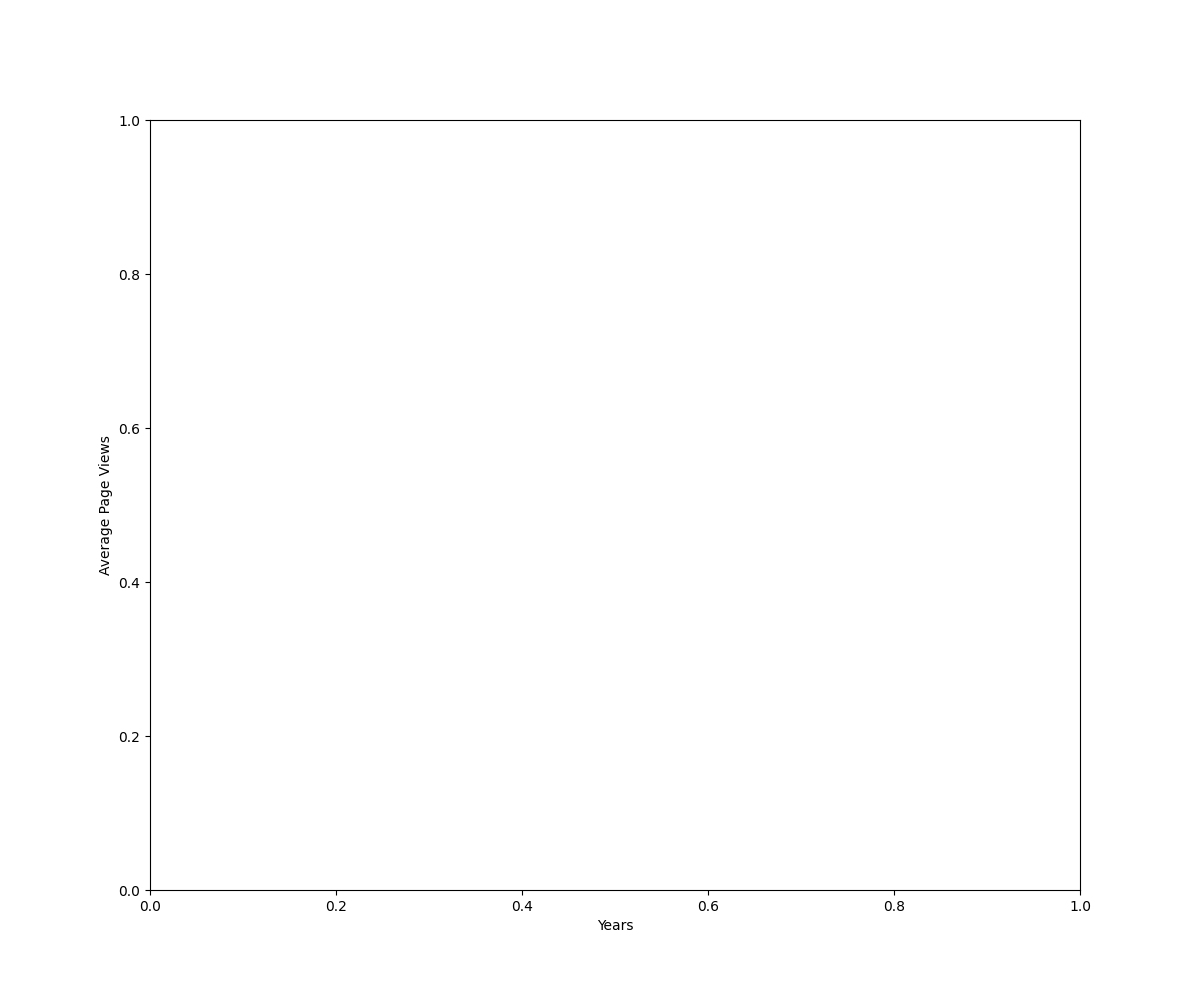
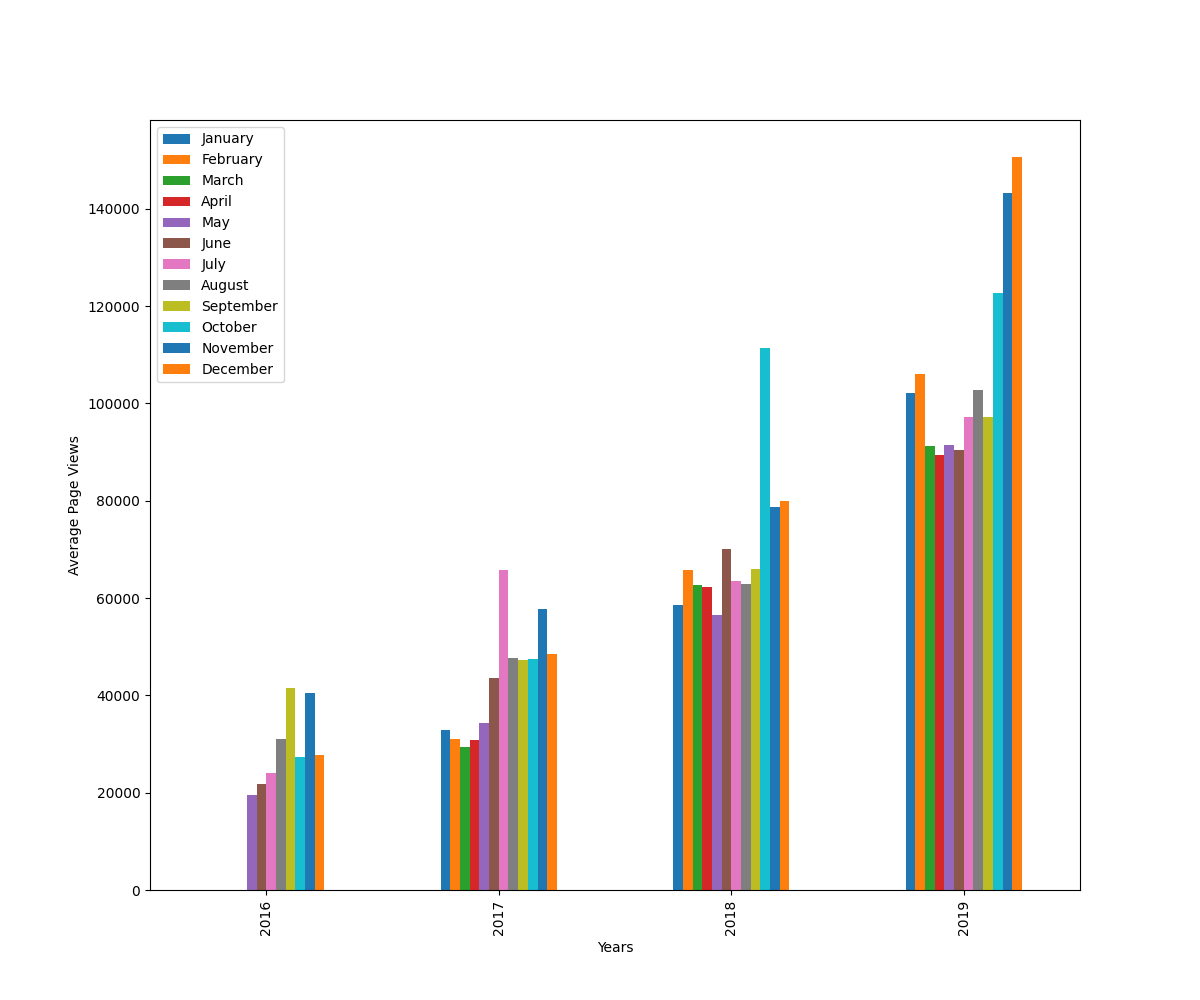
implemented page view visualizer

diff --git a/time_series_visualizer.py b/time_series_visualizer.py
@@ -10,23 +10,52 @@ register_matplotlib_converters()
 df = pd.read_csv(
     "./fcc-forum-pageviews.csv",
     index_col="date",
-    names=["date", "views"],
     parse_dates=True,
-    header=0,
 )
-print(df)
 
 # Clean data
 df = df[
-    (df["views"] >= df["views"].quantile(0.025))
-    & (df["views"] <= df["views"].quantile(0.975))
+    (df["value"] >= df["value"].quantile(0.025))
+    & (df["value"] <= df["value"].quantile(0.975))
+]
+
+months = [
+    "Jan",
+    "Feb",
+    "Mar",
+    "Apr",
+    "May",
+    "Jun",
+    "Jul",
+    "Aug",
+    "Sep",
+    "Oct",
+    "Nov",
+    "Dec",
+]
+
+long_months = [
+    "January",
+    "February",
+    "March",
+    "April",
+    "May",
+    "June",
+    "July",
+    "August",
+    "September",
+    "October",
+    "November",
+    "December",
 ]
 
 
 def draw_line_plot():
     df_line = df.copy()
+
     # Draw line plot
     fig, ax = plt.subplots(figsize=(12, 10))
+    ax.plot(df_line.index, df_line["value"])
     ax.set_title("Daily freeCodeCamp Forum Page Views 5/2016-12/2019")
     ax.set_xlabel("Date")
     ax.set_ylabel("Page Views")
@@ -38,11 +67,19 @@ def draw_line_plot():
 def draw_bar_plot():
     df_bar = df.copy()
     # Copy and modify data for monthly bar plot
+    df_bar["year"] = df_bar.index.year
+    df_bar["month"] = df_bar.index.month
+
+    mean = df_bar.groupby(["year", "month"])["value"].mean().unstack()
+    mean.columns = long_months
 
     # Draw bar plot
     fig, ax = plt.subplots(figsize=(12, 10))
+    mean.plot(kind="bar", ax=ax)
     ax.set_xlabel("Years")
     ax.set_ylabel("Average Page Views")
+    ax.legend(title="Months")
+    ax.legend()
 
     # Save image and return fig (don't change this part)
     fig.savefig("bar_plot.png")
@@ -57,16 +94,17 @@ def draw_box_plot():
     df_box["month"] = [d.strftime("%b") for d in df_box.date]
 
     # Draw box plots (using Seaborn)
-    fig, ax1 = plt.subplots(figsize=(12, 10))
+    fig, axd = plt.subplots(ncols=2, figsize=(12, 6))
 
-    ax1.set_title("Year-wise Box Plot (Trend)")
-    ax1.set_ylabel("Page Views")
-    ax1.set_xlabel("Year")
+    sns.boxplot(x="year", y="value", data=df_box, ax=axd[0])
+    axd[0].set_title("Year-wise Box Plot (Trend)")
+    axd[0].set_ylabel("Page Views")
+    axd[0].set_xlabel("Year")
 
-    ax2 = fig.subplots()
-    ax2.set_title("Month-wise Box Plot (Seasonality)")
-    ax2.set_ylabel("Page Views")
-    ax2.set_xlabel("Month")
+    sns.boxplot(x="month", y="value", data=df_box, order=months, ax=axd[1])
+    axd[1].set_title("Month-wise Box Plot (Seasonality)")
+    axd[1].set_ylabel("Page Views")
+    axd[1].set_xlabel("Month")
 
     # Save image and return fig (don't change this part)
     fig.savefig("box_plot.png")
